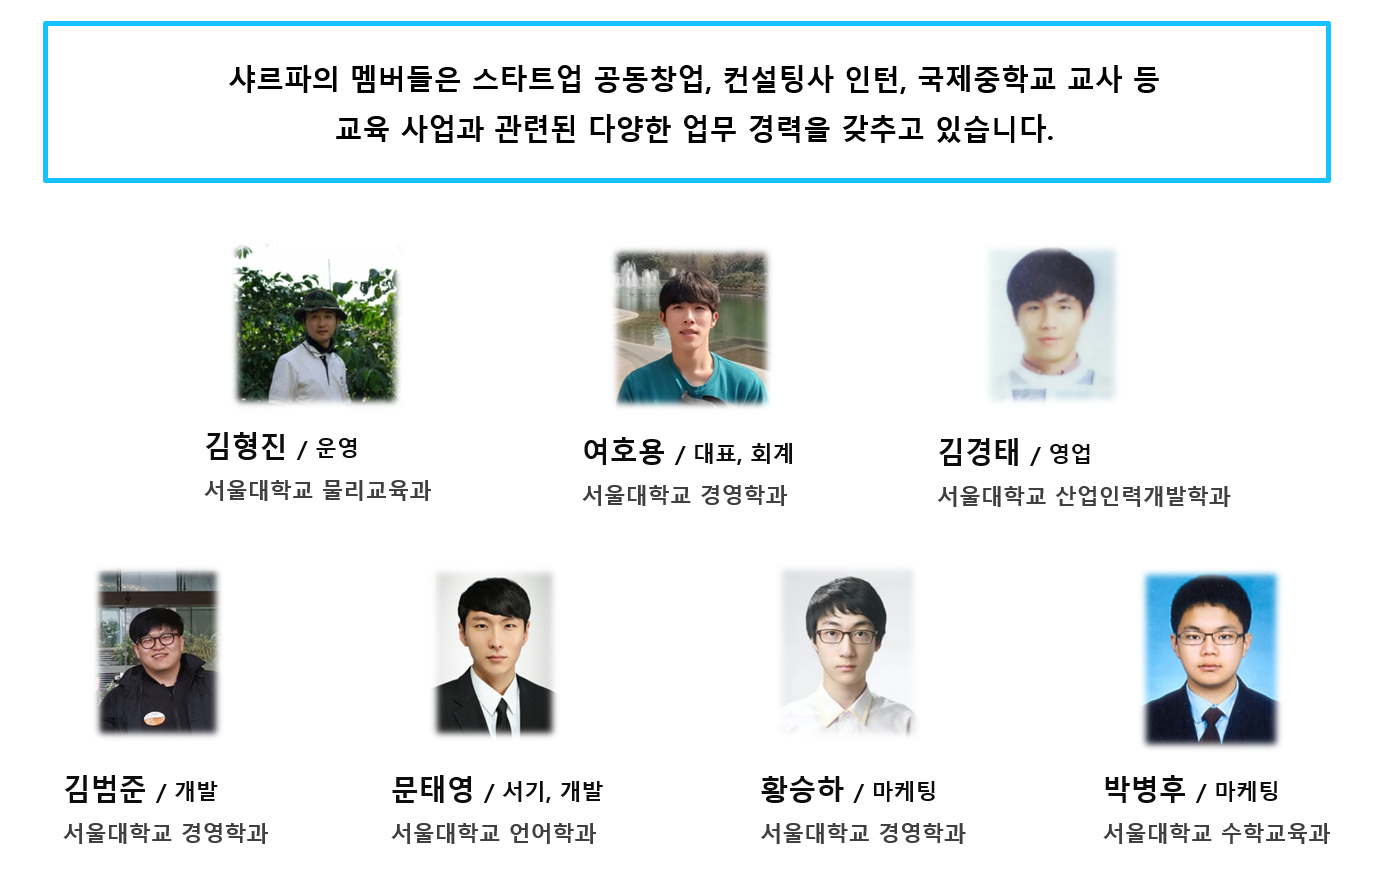
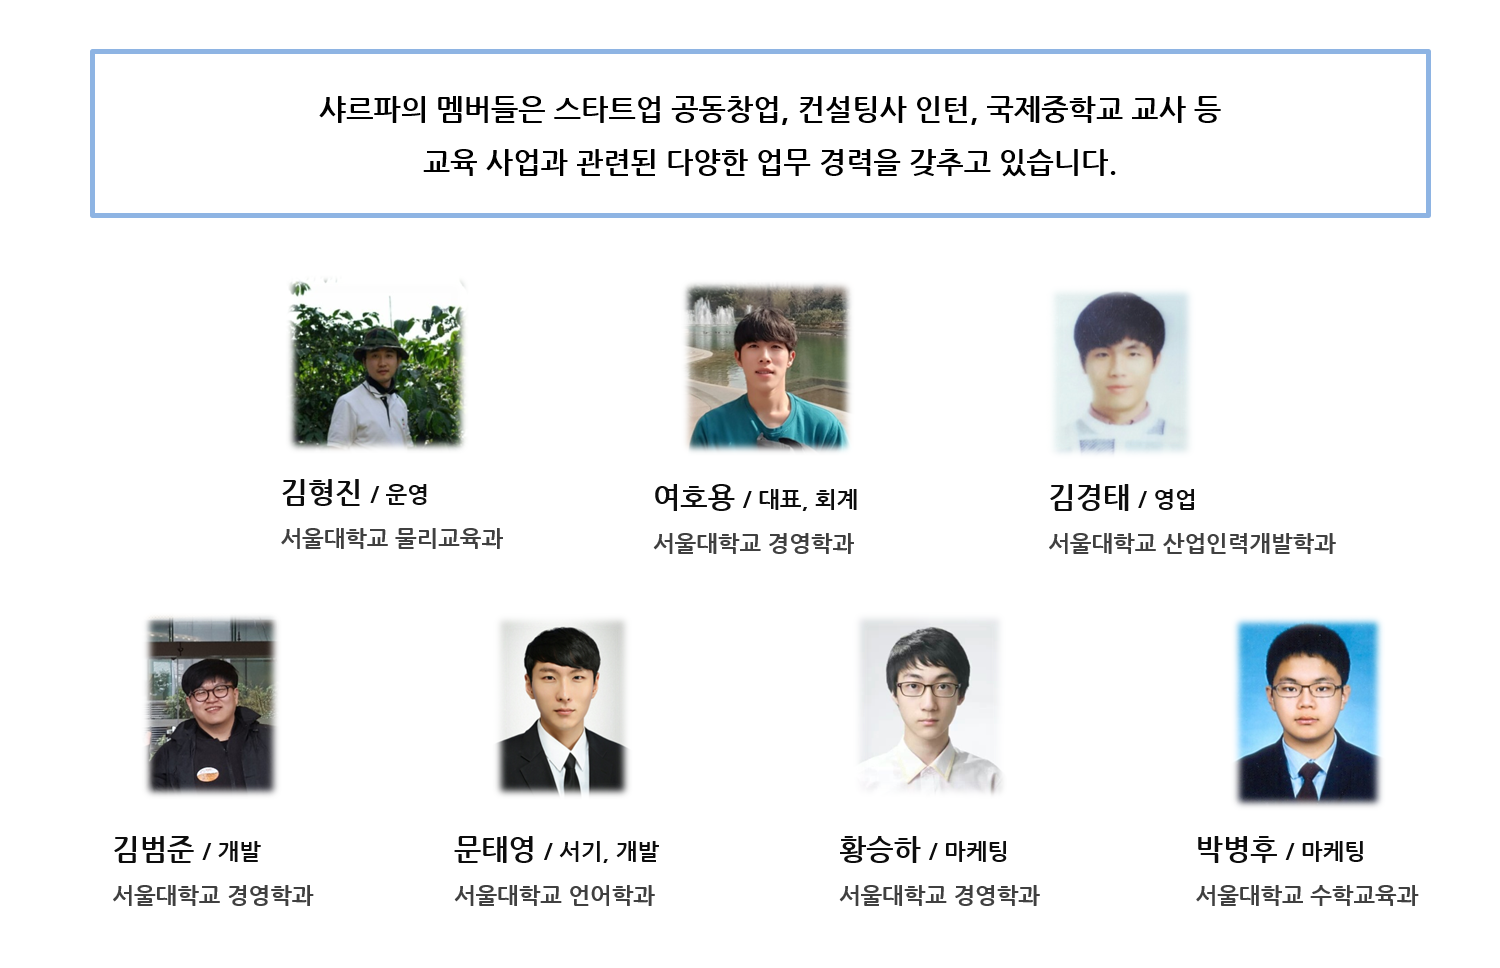
ABOUT US 페이지 수정

diff --git a/src/mentoring/templates/mentoring/intro.html b/src/mentoring/templates/mentoring/intro.html
@@ -104,25 +104,24 @@ $(document).ready(function(){
       </p><hr style="background-color: black;margin : 20px 10% 0 10%;padding: 5 0 0 5;">
 
         <h3 style="margin : 8% 0 8% 0"><em><strong style="color : #006bb3;">약&nbsp;&nbsp;&nbsp;&nbsp;력</strong></em></h3>
-
-          <p style="position: relative; font-size : 21px;line-height: 150%; margin: 0 15% 10% 15%;"><strong><b>샤르파</b></strong>는 우리나라의 교육문제에 대해 고민하는 서울대학교 학생들이 모여 만든 교육 스타트업입니다. <strong><b>서울대 원데이 스쿨</b></strong>은 <strong><b>샤르파</b></strong>를 대표하는 프로그램으로서, 2015년 9월부터 지금까지 수많은 청소년들의 학업 고민을 해결해주고 있습니다. <strong><b>서울대학교 벤처경영 기업가센터</b></strong>, <strong><b>SK 청년비상</b></strong>에서 그 성과를 인정하여 공식적으로 <strong><b>샤르파</b></strong>를 지원 해주고 있으며, 서울대학교 벤처경영학과 교수님들의 자문을 받으며 사업을 진행하고 있습니다.
-          </p><br><br>
+          <h1 style="text-align: center"><img src='{% static 'img/team_info.png' %}' style="width:60%;" /></h1>
+          <br><br>
       </div>
 
     </div>
 
     <div id="content_3" class="container text-center">
-    <br><hr><br>
+    <br><br><br>
     <hr style="background-color: black;margin : 20px 10% 20px 10%;padding: 5 0 0 5;"><h1><b>팀 소개</b></h1>
     <hr style="background-color: black;margin : 20px 10% 20px 10%;padding: 5 0 0 5;">
-    <h1 style="text-align: center"><img src='{% static 'img/team_member.png' %}' style="width:100%;" /></h1>
+    <h1 style="text-align: center"><img src='{% static 'img/team_member.png' %}' style="width:70%;" /></h1>
     </div>
 
     <div id="content_4" class="container text-center" style="background-color: ;">
     <br><hr><br>
     <hr style="background-color: black;margin : 20px 30% 20px 30%;padding: 5 0 0 5;"><h2>후원</h2>
     <hr style="background-color: black;margin : 20px 30% 20px 30%;padding: 5 0 0 5;"><br>
-    <h1><img src='{% static 'img/SNU_SK_img.png' %}' style="position:inline-block; width: 100%;" /></h1>
+    <h1><img src='{% static 'img/SNU_SK_img.png' %}' style="position:inline-block; width: 70%;" /></h1>
 <br><br><br>
     </div>
 
